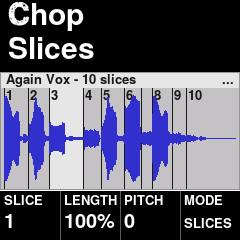
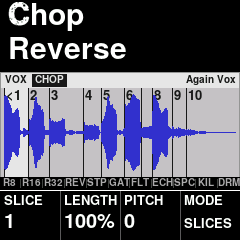
The hub's card and the screens: docs/card.png, app/docs/img/screens.png
- app/tools/make_shots.py: the logo, the screensaver (decoded from the film as the
  FM-1 decodes it), the screens 3 x 3 (loaf-breaker's way), the hub card 1024 x 1024
- app/docs/shots.txt: the screens from the host simulator
- fmhub.json: kinds groove, the text under 300 characters, the card
- README: the screens, and what FM-1 Again writes over (back up first)

diff --git a/app/tools/make_shots.py b/app/tools/make_shots.py
@@ -1,0 +1,108 @@
+#!/usr/bin/env python3
+# SPDX-License-Identifier: GPL-3.0-or-later
+# Copyright (C) 2026 PolarPatch
+"""FM-1 Again's pictures for the README and the Firmware Hub, from the host simulator's screens (app/docs/shots.txt)
+and the screensaver's film as the FM-1 decodes it (app/media/again_saver.bin):
+
+    app/docs/img/screens.png   the logo, the screensaver, then the screens, 3 x 3 at 240 x 240 (loaf-breaker's way)
+    app/docs/img/screen-*.png  each screen alone
+    docs/card.png              the hub's card: 1024 x 1024, black and white (fmhub.json image)
+
+    /usr/bin/python3 base/tools/build.py app --host
+    app/build/host/again_host app/docs/shots.txt app/build/shots
+    /usr/bin/python3 app/tools/make_shots.py"""
+import random, struct, sys, zlib
+from pathlib import Path
+from PIL import Image, ImageDraw, ImageFont
+
+ROOT = Path(__file__).resolve().parents[2]
+SHOTS, IMG = ROOT / "app/build/shots", ROOT / "app/docs/img"
+HEROS = str(ROOT / "app/assets/fonts/texgyreheros-bold.otf")
+BLUE, BLUE_HI, GAP, EDGE = (50, 50, 200), (100, 100, 218), 10, (40, 40, 40)
+FILM_FRAME = 66                                  # the crowd, hands up, under the lights (not the stage)
+
+sys.path.insert(0, str(Path(__file__).parent))
+from again_saver import run_ops, FB, N           # noqa: E402
+
+
+def film_frame(k):
+    """frame k of the film, decoded as saver.h decodes it"""
+    b = (ROOT / "app/media/again_saver.bin").read_bytes()
+    n = struct.unpack_from("<H", b, 4)[0]
+    offs = struct.unpack_from(f"<{n + 1}I", b, 8)
+    f = bytes(FB)
+    for i in range(k + 1):
+        f = run_ops(f, zlib.decompress(b[offs[i]:offs[i + 1]], -15))
+    return Image.frombytes("1", (N, N), f).convert("RGB")
+
+
+def wave(d, x0, y0, w, h, seed, gap=2):
+    """a strip of the waveform's bars, the beats louder"""
+    r, v = random.Random(seed), 0.45
+    for i, x in enumerate(range(x0, x0 + w, gap + 1)):
+        v = min(1.0, max(0.1, v + (r.random() - 0.5) * 0.4))
+        a = 1.0 if i % 8 == 0 else v
+        d.rectangle([x, y0 + h - int(a * h), x + gap - 1, y0 + h], fill=BLUE if i % 8 else BLUE_HI)
+
+
+def fit(text, width, top=300):
+    """the font size at which text is width pixels wide"""
+    size = top
+    while size > 8 and ImageFont.truetype(HEROS, size).getlength(text) > width:
+        size -= 1
+    return ImageFont.truetype(HEROS, size)
+
+
+def logo(size=240):
+    """the name, set as the posters set it: big, bold, white on black"""
+    im = Image.new("RGB", (size, size), (0, 0, 0))
+    d, s = ImageDraw.Draw(im), size / 240
+    big = fit("AGAIN", int(212 * s))
+    d.text((int(14 * s), int(30 * s)), "FM-1", font=big, fill=(255, 255, 255))
+    d.text((int(12 * s), int(98 * s)), "AGAIN", font=big, fill=(255, 255, 255))
+    wave(d, int(14 * s), int(186 * s), int(212 * s), int(16 * s), 7, gap=max(1, int(2 * s)))
+    small = ImageFont.truetype(HEROS, int(11 * s))
+    d.text((int(14 * s), int(214 * s)), "P O L A R P A T C H", font=small, fill=(140, 140, 140))
+    return im
+
+
+def grid(tiles, cols):
+    rows = (len(tiles) + cols - 1) // cols
+    out = Image.new("RGB", (cols * 240 + (cols + 1) * GAP, rows * 240 + (rows + 1) * GAP), EDGE)
+    for k, t in enumerate(tiles):
+        out.paste(t, (GAP + (k % cols) * (240 + GAP), GAP + (k // cols) * (240 + GAP)))
+    return out
+
+
+def card():
+    """1024 x 1024: the film's crowd at four pixels a dot, the waveform, the name under it"""
+    im = Image.new("RGB", (1024, 1024), (0, 0, 0))
+    f = film_frame(FILM_FRAME).resize((960, 960), Image.NEAREST).crop((0, 200, 960, 800))
+    im.paste(f, (32, 32))
+    d = ImageDraw.Draw(im)
+    wave(d, 32, 660, 960, 40, 11, gap=6)
+    big = fit("FM-1 AGAIN", 960)
+    d.text((28, 720), "FM-1 AGAIN", font=big, fill=(255, 255, 255))
+    small = ImageFont.truetype(HEROS, 30)
+    d.text((34, 950), "G R O O V E B O X   F I R M W A R E   ·   P O L A R P A T C H", font=small, fill=(150, 150, 150))
+    return im
+
+
+def main():
+    IMG.mkdir(parents=True, exist_ok=True)
+    order = [("drop", "Drop!"), ("build", "Drop in 4"), ("pad", "a pad held"), ("chop", "CHOP, a slice reversed"),
+             ("keys", "KEYS"), ("home2", "playing"), ("tape", "TAPE")]
+    tiles = [logo(), film_frame(FILM_FRAME)] + [Image.open(SHOTS / f"{n}.png").convert("RGB") for n, _ in order]
+    grid(tiles, 3).save(IMG / "screens.png", optimize=True)
+    logo().save(IMG / "screen-logo.png", optimize=True)
+    film_frame(FILM_FRAME).convert("1").save(IMG / "screen-saver.png", optimize=True)
+    for n, _ in order:
+        Image.open(SHOTS / f"{n}.png").convert("RGB").save(IMG / f"screen-{n}.png", optimize=True)
+    (ROOT / "docs").mkdir(exist_ok=True)
+    c = card()
+    c.save(ROOT / "docs/card.png", optimize=True)
+    print("screens.png", grid(tiles, 3).size, "card.png", (ROOT / "docs/card.png").stat().st_size, "B")
+
+
+if __name__ == "__main__":
+    main()

diff --git a/README.md b/README.md
@@ -11,7 +11,7 @@ fall. A sister to [Arctic Scream p0larpatch](https://github.com/PolarPatch/Arcti
 [cheat sheet](https://polarpatch.github.io/FM-1-Again/cheatsheet.html) ·
 [manual](app/docs/MANUAL.md) · [releases](https://github.com/PolarPatch/FM-1-Again/releases)
 
-![FM-1 Again playing: the bar count in big type, the tempo, the waveform of the last 16 bars, the four knobs' values](app/docs/img/screen-playing.png)
+![FM-1 Again's screens: the name, the screensaver, the drop, a build ("Drop in 4"), a pad held (stutter), CHOP with a slice reversed, KEYS, playing, TAPE](app/docs/img/screens.png)
 
 ## What it does
 
@@ -37,6 +37,13 @@ also put M-VAVE's own firmware back. Or from a terminal, with the package from t
 
 Unofficial firmware, not made or endorsed by M-VAVE: install at your own risk. Stuck? The Rescue page on the
 [FM-1 Firmware Hub](https://thefirmwarehub.com/) brings it back.
+
+**Back up first: other firmwares' projects and samples.** FM-1 Again cannot read what another firmware saved, and it
+writes over these parts of the FM-1's flash: 0x97000–0xDBFFF (the screensaver's film, written by the installer), the
+store's pairs at 0xDC000 and 0xDE000, 0xE5000–0xFBFFF (CHOP's sample) and Felucca's settings sector pair at 0xFC000
+(FM-1 Again's settings). Samples, kits or projects another firmware kept there are gone after you install it, and a
+firmware you install afterwards will not find FM-1 Again's settings or sample. Back up with that firmware's own tool
+before you install.
 
 ## Your own sample
 
